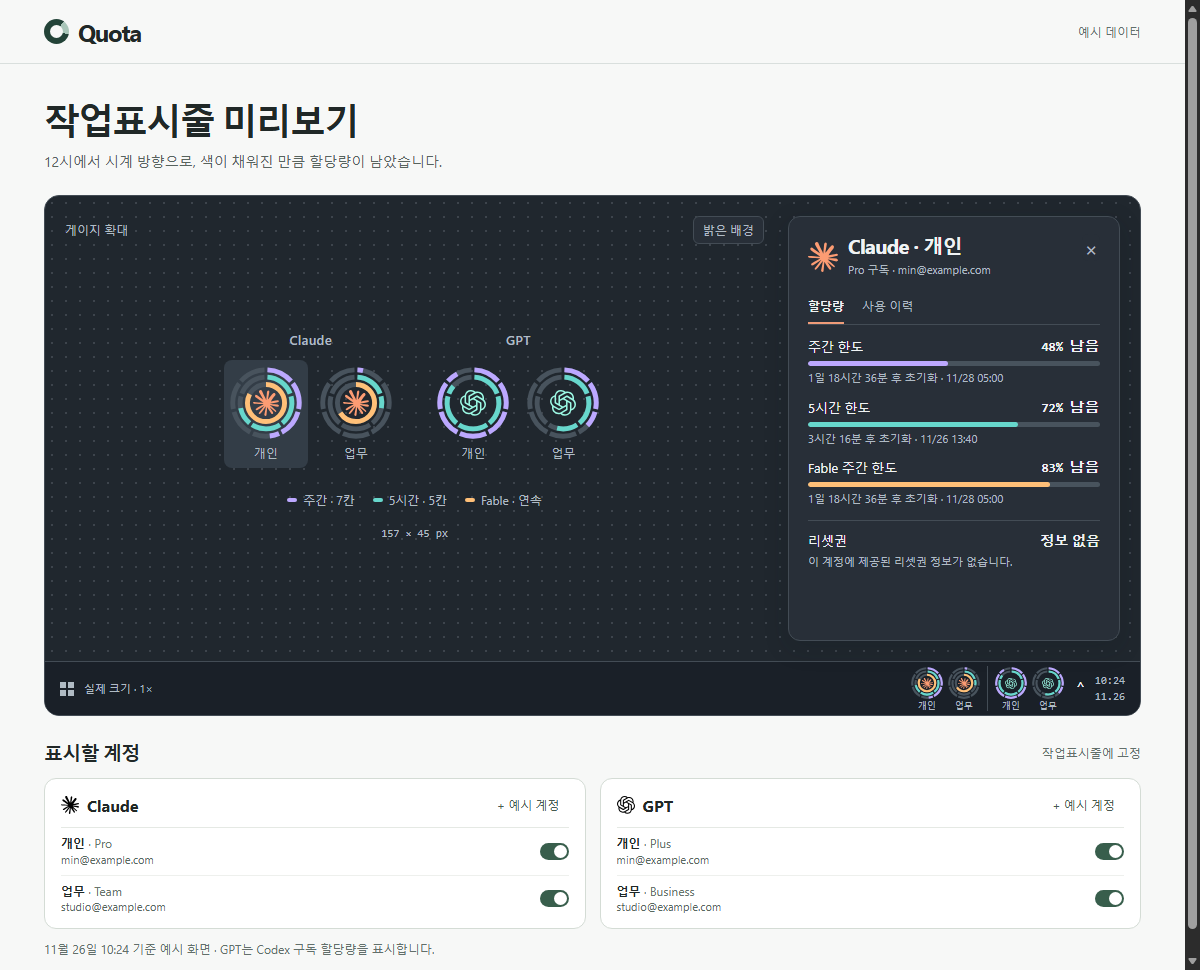
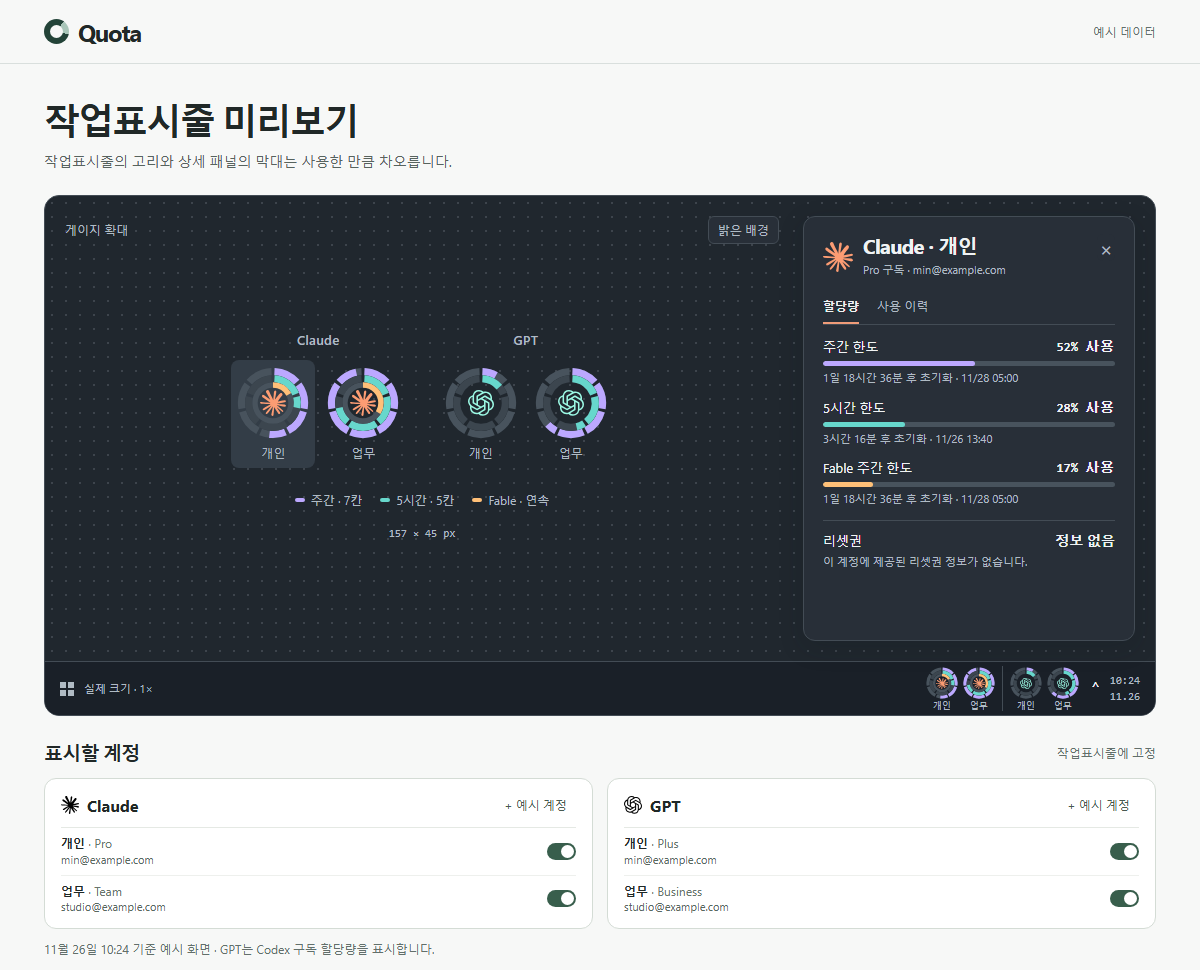
Align quota bars with consumed rings and advance reset hands clockwise

diff --git a/preview.js b/preview.js
@@ -27,8 +27,8 @@ function save(){
   for(const {id, added, visible, redeemed} of accounts) prefs[id] = {added,visible,redeemed};
   try {localStorage.setItem(stateKey, JSON.stringify(prefs));} catch {}
 }
-function remaining(a, windowName){
-  return windowName === "short" && a.redeemed ? 100 : a[windowName];
+function used(a, windowName){
+  return windowName === "short" && a.redeemed ? 0 : 100 - a[windowName];
 }
 function logo(provider){
   return '<img class="logo" src="'+provider+'.svg" alt="">';
@@ -44,9 +44,9 @@ function resetLabel(minutes){
   return left+" 후 초기화 · "+(end.getMonth()+1)+"/"+end.getDate()+" "+clock(minutes);
 }
 const faces = {
-  week: {label:"주간", radius:29.5, divisions:7},
-  short: {label:"5시간", radius:23, divisions:5},
-  fable: {label:"Fable 주간", radius:16.5, divisions:1}
+  week: {label:"주간", radius:28, divisions:7},
+  short: {label:"5시간", radius:21.6, divisions:5},
+  fable: {label:"Fable 주간", radius:16, divisions:1}
 };
 
 function dialRing(key, value){
@@ -75,9 +75,9 @@ function dialRing(key, value){
 
 function gauge(a){
   const windows = Object.keys(faces).filter(key => a[key] != null);
-  const label = windows.map(key=>faces[key].label+" "+remaining(a,key)+"%").join(", ");
-  const description = providers[a.provider]+" "+a.alias+" · "+a.email+" · 잔여율 "+label;
-  const rings = windows.map(key=>dialRing(key,remaining(a,key))).join("");
+  const label = windows.map(key=>faces[key].label+" "+used(a,key)+"%").join(", ");
+  const description = providers[a.provider]+" "+a.alias+" · "+a.email+" · 사용률 "+label;
+  const rings = windows.map(key=>dialRing(key,used(a,key))).join("");
   return `<button class="gauge-btn ${a.provider}" data-open="${a.id}" aria-expanded="${activeId===a.id}" aria-controls="panel" aria-label="${description}" title="${description}">
     <span class="gauge"><svg viewBox="0 0 64 64" aria-hidden="true">${rings}</svg>${logo(a.provider)}</span><span class="account-name">${a.alias}</span></button>`;
 }
@@ -103,16 +103,16 @@ function drawCards(){
   }).join("");
 }
 function limitRow(key, value, minutes){
-  return `<div class="quota ${key}"><div class="quota-head"><span>${faces[key].label} 한도</span><b>${value}% 남음</b></div><div class="meter"><i style="width:${value}%"></i></div><div class="meta">${resetLabel(minutes)}</div></div>`;
+  return `<div class="quota ${key}"><div class="quota-head"><span>${faces[key].label} 한도</span><b>${value}% 사용</b></div><div class="meter"><i style="width:${value}%"></i></div><div class="meta">${resetLabel(minutes)}</div></div>`;
 }
 function limits(a){
   const count=a.tickets===null?null:a.tickets-Number(a.redeemed);
   let creditNote="이 계정에 제공된 리셋권 정보가 없습니다.";
   if(count!==null) creditNote=count ? "만료 "+a.expires : "사용 가능한 리셋권이 없습니다.";
-  const canUse=count>0 && remaining(a,"short")<100;
-  return limitRow("week",a.week,a.reset[1])+
-    limitRow("short",remaining(a,"short"),a.redeemed?300:a.reset[0])+
-    (a.fable != null ? limitRow("fable",a.fable,a.reset[1]) : "")+
+  const canUse=count>0 && used(a,"short")>0;
+  return limitRow("week",used(a,"week"),a.reset[1])+
+    limitRow("short",used(a,"short"),a.redeemed?300:a.reset[0])+
+    (a.fable != null ? limitRow("fable",used(a,"fable"),a.reset[1]) : "")+
     `<div class="ticket"><span>리셋권</span><div><b>${count===null?"정보 없음":count+"장"}</b>${canUse?'<button class="action" id="redeem" title="예시 리셋권 1장으로 5시간 한도 초기화">5시간 리셋 체험</button>':""}</div></div>
     <p class="feedback">${creditNote}${a.redeemed?" · 5시간 리셋 체험 완료":""}</p>`;
 }

diff --git a/index.html b/index.html
@@ -10,7 +10,7 @@
 <body>
   <header class="mast"><span class="wordmark"><i aria-hidden="true"></i>Quota</span><a href="account-preview.html">이전 계정 상세 시안 ↗</a></header>
   <main>
-    <header class="intro"><h1>작업표시줄 리셋 시계</h1><p>사용할수록 고리가 12시부터 시계 방향으로 차오릅니다. 빨간 바늘은 다음 리셋까지 남은 시간을 가리킵니다.</p></header>
+    <header class="intro"><h1>작업표시줄 리셋 시계</h1><p>색이 찬 만큼 한도를 사용했습니다. 빨간 바늘에서 12시까지 시계 방향으로 남은 눈금이 리셋까지 남은 시간입니다.</p></header>
     <section class="board" aria-label="게이지 미리보기">
       <div class="canvas">
         <div class="zoom"><div class="cap">게이지 확대 <span>3×</span></div><div id="zoom"></div></div>
@@ -21,7 +21,7 @@
       <div class="bar"><span class="bar-label">작업표시줄 <strong>1×</strong></span><div id="strip" aria-label="미리 볼 계정"></div><div class="system-clock"><span id="clock"></span><span id="date"></span></div></div>
     </section>
     <section class="choose" aria-label="타이머 표현 방식">
-      <button class="option" data-mode="hands" aria-pressed="true"><span class="radio"></span><span><strong>고리 위 시곗바늘</strong><small>바깥 빨간 선은 주간, 안쪽 빨간 선은 5시간 리셋이 가까워질수록 12시로 돌아옵니다.</small></span><span class="sample-tile" aria-hidden="true"></span></button>
+      <button class="option" data-mode="hands" aria-pressed="true"><span class="radio"></span><span><strong>고리 위 시곗바늘</strong><small>12시에서 출발해 바깥 바늘은 하루에 한 칸, 안쪽 바늘은 한 시간에 한 칸씩 시계 방향으로 움직입니다.</small></span><span class="sample-tile" aria-hidden="true"></span></button>
       <button class="option" data-mode="scale" aria-pressed="false"><span class="radio"></span><span><strong>별칭 아래 시간 눈금</strong><small>보라색 7칸은 하루씩, 청록색 5칸은 한 시간씩 꺼집니다.</small></span><span class="sample-tile" aria-hidden="true"></span></button>
     </section>
     <section class="controls" aria-label="시안 조작">

diff --git a/clock-preview.js b/clock-preview.js
@@ -6,9 +6,9 @@ const accounts = [
   { provider: "GPT", alias: "Pro 200", used: { week: 8, short: 62 }, weekReset: 6 * 1440 + 720, shortReset: 255 },
 ];
 const rings = {
-  week: { name: "주간", color: "#b9a5ff", radius: 35, cells: 7, minutes: 7 * 1440 },
-  short: { name: "5시간", color: "#65ddd1", radius: 26.5, cells: 5, minutes: 300 },
-  fable: { name: "Fable", color: "#ffb784", radius: 19, cells: 1 },
+  week: { name: "주간", color: "#b9a5ff", radius: 35, stroke: 8, cells: 7, minutes: 7 * 1440 },
+  short: { name: "5시간", color: "#65ddd1", radius: 27, stroke: 8, cells: 5, minutes: 300 },
+  fable: { name: "Fable", color: "#ffb784", radius: 20, stroke: 6, cells: 1 },
 };
 const base = new Date(2026, 10, 26, 10, 24);
 const $ = (selector) => document.querySelector(selector);
@@ -41,10 +41,9 @@ function point(radius, fraction) {
   return [40 + radius * Math.sin(angle), 40 - radius * Math.cos(angle)];
 }
 function ring(a, key) {
-  const { radius, cells, color } = rings[key];
+  const { radius, stroke, cells, color } = rings[key];
   const value = a.used[key] / 100;
-  const stroke = key === "fable" ? 3 : 5.2;
-  const track = "#505e62";
+  const track = key === "short" ? "#384b4d" : "#505e62";
   if (cells === 1) {
     const circle = '<circle cx="40" cy="40" r="' + radius + '" fill="none" stroke-width="' + stroke + '"';
     return circle + ' stroke="' + track + '"/>' + (value > 0 ? circle + ' stroke="' + color + '" transform="rotate(-90 40 40)" pathLength="100" stroke-dasharray="' + value * 100 + ' 100"/>' : "");
@@ -61,11 +60,12 @@ function ring(a, key) {
 function hand(a, key) {
   const { radius } = rings[key];
   const left = timeRatio(a, key);
+  const angle = left === 0 ? 0 : (1 - left) * 360;
   const y = 40 - radius;
   // Each hand crosses only its own ring, including when both point to noon.
   const line = 'd="M40 ' + (y + 3.6) + ' v-7.6"';
   const dash = left === 0 ? ' stroke-dasharray="2.8 2 2.8"' : "";
-  return '<g transform="rotate(' + (left * 360) + ' 40 40)" fill="none">' +
+  return '<g transform="rotate(' + angle + ' 40 40)" fill="none">' +
     '<path ' + line + ' stroke="#182125" stroke-width="6"/>' +
     '<path ' + line + ' stroke="#ff4848" stroke-width="3.6"' + dash + '/></g>';
 }

diff --git a/account-preview.html b/account-preview.html
@@ -10,7 +10,7 @@
 <body>
 <header><div class="brand"><i aria-hidden="true"></i>Quota</div><span class="sample">예시 데이터</span></header>
 <main>
-<div class="heading"><div><h1>작업표시줄 미리보기</h1><p>12시에서 시계 방향으로, 색이 채워진 만큼 할당량이 남았습니다.</p></div></div>
+<div class="heading"><div><h1>작업표시줄 미리보기</h1><p>작업표시줄의 고리와 상세 패널의 막대는 사용한 만큼 차오릅니다.</p></div></div>
 <section class="stage" aria-label="작업표시줄과 계정 상세">
 <div class="scene"><div class="canvas"><div class="canvashead"><span>게이지 확대</span><button id="theme" aria-pressed="false">밝은 배경</button></div><div class="study" id="study"></div><div class="legend" aria-label="고리 범례"><span class="week">주간 · 7칸</span><span class="short">5시간 · 5칸</span><span class="fable">Fable · 연속</span></div><div class="dimension" id="dim"></div></div>
 <aside id="panel" aria-labelledby="account-title" hidden></aside></div>

diff --git a/preview.css b/preview.css
@@ -14,7 +14,7 @@ button{font:inherit;color:inherit;cursor:pointer}button:focus-visible{outline:2p
 .stage{--week:#bca8ff;--short:#67d7cc;--fable:#ffc078}
 .stage.light{--week:#6750ac;--short:#00766e;--fable:#9a5717}
 .week{--color:var(--week)}.short{--color:var(--short)}.fable{--color:var(--fable)}
-.dial-ring{fill:none;stroke:var(--color);stroke-width:4.35}.dial-ring .track{stroke:var(--track)}
+.dial-ring{fill:none;stroke:var(--color);stroke-width:6.4}.dial-ring.fable{stroke-width:4.8}.dial-ring .track{stroke:var(--track)}.dial-ring.short .track{stroke:color-mix(in srgb,var(--track) 70%,var(--ground))}
 .legend{display:flex;justify-content:center;flex-wrap:wrap;gap:8px 18px;margin-top:24px}
 .legend span{font-size:12px;color:var(--muted);display:inline-flex;align-items:center;gap:6px}
 .legend span:before{content:"";width:10px;height:4px;border-radius:2px;background:var(--color)}

diff --git a/src/app.js b/src/app.js
@@ -62,15 +62,15 @@ function resetTime(t) {
   );
 }
 function limit(label, key, v) {
-  if (!v) return "";
-  const value = Math.max(0, Math.min(100, v.remaining));
+  if (!Number.isFinite(v?.remaining)) return "";
+  const used = 100 - Math.max(0, Math.min(100, v.remaining));
   return (
     '<div class="limit"><div class="line"><span>' +
     label +
     "</span><b>" +
-    Number(value.toFixed(1)) +
-    '% 남음</b></div><div class="meter"><i style="width:' +
-    value +
+    Number(used.toFixed(1)) +
+    '% 사용</b></div><div class="meter"><i style="width:' +
+    used +
     "%;background:var(--" +
     key +
     ')"></i></div><small>' +

diff --git a/src/taskbar.rs b/src/taskbar.rs
@@ -1167,11 +1167,9 @@ fn light_theme() -> bool {
 // 64x64 alpha masks rasterized from claude.svg and openai.svg, covered by ICONS-LICENSE.txt.
 const CLAUDE_MASK: &[u8; 4096] = include_bytes!("taskbar_claude.alpha");
 const GPT_MASK: &[u8; 4096] = include_bytes!("taskbar_openai.alpha");
-const WEEK_RADIUS: f32 = 35. / 2.;
-const SHORT_RADIUS: f32 = 26.5 / 2.;
-const FABLE_RADIUS: f32 = 19. / 2.;
-const RING_WIDTH: f32 = 5.2 / 2.;
-const FABLE_WIDTH: f32 = 3. / 2.;
+const OUTER_RADIUS: f32 = 19.5;
+const RING_WIDTH: f32 = 4.;
+const FABLE_WIDTH: f32 = 3.;
 const WEEK_SECONDS: i64 = 7 * 24 * 60 * 60;
 const SHORT_SECONDS: i64 = 5 * 60 * 60;
 
@@ -1211,10 +1209,14 @@ struct ResetHand {
 }
 
 fn reset_hand(resets_at: Option<i64>, now: i64, window: i64) -> Option<ResetHand> {
-    let seconds = resets_at?.saturating_sub(now).clamp(0, window);
+    let left = resets_at?.saturating_sub(now).clamp(0, window);
     Some(ResetHand {
-        angle: TAU * (seconds as f32 / window as f32),
-        expired: seconds == 0,
+        angle: if left == 0 {
+            0.
+        } else {
+            TAU * ((window - left) as f32 / window as f32)
+        },
+        expired: left == 0,
     })
 }
 
@@ -1374,28 +1376,40 @@ impl Renderer {
                         HEIGHT as f32 / 2.,
                     );
                     let known = has_quota(tile);
-                    for (limit, radius, stroke, divisions, active) in [
-                        (tile.week.as_ref(), WEEK_RADIUS, RING_WIDTH, 7, palette.week),
+                    let mut outer_edge = OUTER_RADIUS;
+                    for (limit, stroke, divisions, active, track, window) in [
+                        (
+                            tile.week.as_ref(),
+                            RING_WIDTH,
+                            7,
+                            palette.week,
+                            palette.track,
+                            Some(WEEK_SECONDS),
+                        ),
                         (
                             tile.short.as_ref(),
-                            SHORT_RADIUS,
                             RING_WIDTH,
                             5,
                             palette.short,
+                            palette.short_track,
+                            Some(SHORT_SECONDS),
                         ),
                         (
                             tile.fable.as_ref(),
-                            FABLE_RADIUS,
                             FABLE_WIDTH,
                             1,
                             palette.fable,
+                            palette.track,
+                            None,
                         ),
                     ] {
                         let Some(limit) = limit.filter(|limit| limit.remaining.is_finite()) else {
                             continue;
                         };
+                        let radius = outer_edge - stroke / 2.;
+                        outer_edge -= stroke;
                         for arc in arcs(divisions, limit.remaining) {
-                            brush.SetColor(&palette.track);
+                            brush.SetColor(&track);
                             self.arc(
                                 target,
                                 &brush,
@@ -1416,10 +1430,21 @@ impl Renderer {
                                 )?;
                             }
                         }
+                        if let Some(hand) = window.and_then(|w| reset_hand(limit.resets_at, now, w))
+                        {
+                            draw_reset_hand(target, &brush, &palette, center, radius, hand);
+                        }
                     }
                     if !known {
                         brush.SetColor(&palette.track);
-                        self.arc(target, &brush, center, (WEEK_RADIUS, RING_WIDTH), 0., TAU)?;
+                        self.arc(
+                            target,
+                            &brush,
+                            center,
+                            (OUTER_RADIUS - RING_WIDTH / 2., RING_WIDTH),
+                            0.,
+                            TAU,
+                        )?;
                     }
                     let has_fable = tile
                         .fable
@@ -1444,17 +1469,6 @@ impl Renderer {
                         D2D1_BITMAP_INTERPOLATION_MODE_LINEAR,
                         None,
                     );
-                    for (limit, radius, window) in [
-                        (tile.week.as_ref(), WEEK_RADIUS, WEEK_SECONDS),
-                        (tile.short.as_ref(), SHORT_RADIUS, SHORT_SECONDS),
-                    ] {
-                        let reset = limit
-                            .filter(|limit| limit.remaining.is_finite())
-                            .and_then(|limit| limit.resets_at);
-                        if let Some(hand) = reset_hand(reset, now, window) {
-                            draw_reset_hand(target, &brush, &palette, center, radius, hand);
-                        }
-                    }
                     let label_left = x + (TILE_PAD + DIAL_SIZE + LABEL_GAP) as f32;
                     let label_right = x + width - TILE_PAD as f32;
                     if label_right > label_left {
@@ -1668,6 +1682,7 @@ struct Palette {
     paper: D2D1_COLOR_F,
     hover: D2D1_COLOR_F,
     track: D2D1_COLOR_F,
+    short_track: D2D1_COLOR_F,
     label: D2D1_COLOR_F,
     line: D2D1_COLOR_F,
     week: D2D1_COLOR_F,
@@ -1696,6 +1711,7 @@ impl Palette {
             paper: color(paper, 0.92),
             hover: color(hover, 1.),
             track: color(track, 1.),
+            short_track: color(if light { 0xafc6be } else { 0x384b4d }, 1.),
             label: color(label, 1.),
             line: color(line, 1.),
             week: color(week, 1.),
@@ -1995,15 +2011,20 @@ mod tests {
     }
 
     #[test]
-    fn active_reset_hands_follow_their_own_window() {
-        let now = 1_800_000_000;
-        let week = reset_hand(Some(now + WEEK_SECONDS / 4), now, WEEK_SECONDS).unwrap();
-        let short = reset_hand(Some(now + SHORT_SECONDS / 2), now, SHORT_SECONDS).unwrap();
-        let clamped = reset_hand(Some(now + SHORT_SECONDS + 1), now, SHORT_SECONDS).unwrap();
-        assert_eq!(week.angle, TAU / 4.);
-        assert_eq!(short.angle, TAU / 2.);
-        assert_eq!(clamped.angle, TAU);
-        assert!(!week.expired && !short.expired && !clamped.expired);
+    fn reset_hands_advance_clockwise_one_tick_per_day_or_hour() {
+        let start = 1_800_000_000;
+        for (window, ticks) in [(WEEK_SECONDS, 7), (SHORT_SECONDS, 5)] {
+            let reset = Some(start + window);
+            assert_eq!(reset_hand(reset, start - 1, window).unwrap().angle, 0.);
+            for tick in 0..ticks {
+                let now = start + tick * (window / ticks);
+                let hand = reset_hand(reset, now, window).unwrap();
+                let expected = TAU * tick as f32 / ticks as f32;
+                assert!((hand.angle - expected).abs() < 0.00001);
+                assert!(!hand.expired);
+            }
+            assert!(reset_hand(reset, start + window - 1, window).unwrap().angle > TAU * 0.99);
+        }
     }
 
     #[test]

diff --git a/README.md b/README.md
@@ -1,20 +1,20 @@
 # Quota
 
-Windows 11 x64 작업표시줄에서 Claude Code와 Codex의 계정별 구독 할당량을 확인하는 앱입니다. 계정 별칭 왼쪽의 40 DIP 게이지가 사용한 만큼 12시에서 시계 방향으로 차오릅니다. 바깥의 보라색 7칸은 주간 사용량, 청록색 5칸은 5시간 사용량입니다. Claude가 Fable 한도를 제공하면 안쪽 살구색 고리에 해당 사용량을 표시합니다.
+Windows 11 x64 작업표시줄에서 Claude Code와 Codex의 계정별 구독 할당량을 확인하는 앱입니다. 계정 별칭 왼쪽의 40 DIP 게이지에는 고리가 서로 맞닿아 있고, 각 고리는 사용한 만큼 12시에서 시계 방향으로 차오릅니다. 바깥의 보라색 7칸은 주간 사용량, 청록색 5칸은 5시간 사용량입니다. Claude가 Fable 한도를 제공하면 안쪽 살구색 고리에 해당 사용량을 표시합니다.
 
 ## 게이지 읽기
 
-![Windows 11 작업표시줄에서 테스트 계정 두 개와 +1 버튼을 표시한 실제 캡처](taskbar-clock-native.png)
+![Windows 11 작업표시줄에서 테스트 계정의 사용량 고리와 빨간 바늘, +2 버튼을 표시한 실제 캡처](taskbar-clock-native.png)
 
-각 고리의 짧은 빨간 선은 리셋까지 남은 시간을 가리킵니다. 주간은 한 칸에 하루, 5시간 한도는 한 칸에 한 시간이며 두 바늘은 시간이 흐르면 반시계 방향으로 12시에 다가갑니다. 리셋 시각을 지나면 다음 조회까지 12시에 끊어진 빨간 선이 표시됩니다. 공급자가 리셋 시각을 제공한 고리에만 바늘이 나타납니다. 계정을 누르면 상세 패널에서 정확한 잔여율과 현지 리셋 시각을 볼 수 있습니다.
+빨간 바늘은 한도 주기가 시작되면 12시에서 출발해 시계 방향으로 움직입니다. 바깥 바늘은 하루에 한 칸, 안쪽 바늘은 한 시간에 한 칸을 지납니다. 바늘에서 12시까지 시계 방향으로 남은 눈금이 다음 리셋까지 남은 시간입니다. 리셋 시각을 지나면 다음 조회까지 12시에 끊어진 빨간 선이 표시됩니다. 공급자가 리셋 시각을 제공한 고리에만 바늘이 나타납니다. 계정을 누르면 상세 패널의 막대와 숫자에서 같은 사용률을 확인하고, 그 아래에서 초기화까지 남은 시간과 현지 시각을 볼 수 있습니다.
 
 ![작업표시줄 리셋 시계 시안](taskbar-clock.png)
 
-저장소를 내려받아 [시안](index.html)을 열면 40 DIP 게이지와 오른쪽 별칭을 실제 크기로 볼 수 있습니다. **고리 위 시곗바늘**에서 바깥 빨간 선은 주간 리셋을, 안쪽 빨간 선은 5시간 리셋을 가리킵니다. **+1시간**을 누르면 두 바늘이 반시계 방향으로 12시에 다가갑니다. **별칭 아래 시간 눈금**으로 전환해 비교할 수 있습니다. **사용량 바꿔 보기**에서 슬라이더를 올리면 고리가 12시부터 시계 방향으로 차오릅니다. 0%에서는 비어 있고 100%에서는 한 바퀴가 모두 채워집니다. 이 화면은 예시 데이터를 사용합니다.
+저장소를 내려받아 [시안](index.html)을 열면 40 DIP 게이지와 오른쪽 별칭을 실제 크기로 볼 수 있습니다. **고리 위 시곗바늘**에서 **+1시간**을 누르면 5시간 바늘이 시계 방향으로 한 칸 전진합니다. **별칭 아래 시간 눈금**으로 전환해 비교할 수 있습니다. **사용량 바꿔 보기**에서 슬라이더를 올리면 고리가 12시부터 시계 방향으로 차오릅니다. 0%에서는 비어 있고 100%에서는 한 바퀴가 모두 채워집니다. 이 화면은 예시 데이터를 사용합니다.
 
 ## 설치와 계정 연결
 
-1. `dist/Quota-1.1.0-windows-x64-setup.exe`를 실행합니다. 설치는 현재 Windows 사용자에게 적용됩니다. WebView2가 없는 PC는 최초 설치 시 인터넷 연결이 필요합니다. 이 빌드는 미서명입니다.
+1. `dist/Quota-1.1.1-windows-x64-setup.exe`를 실행합니다. 설치는 현재 Windows 사용자에게 적용됩니다. WebView2가 없는 PC는 최초 설치 시 인터넷 연결이 필요합니다. 이 빌드는 미서명입니다.
 2. 시작 메뉴에서 **Quota**를 열고 Claude 또는 GPT를 선택합니다. 제안된 폴더를 확인하거나 **폴더 선택**으로 Windows에서 이미 로그인한 CLI 프로필을 지정합니다. Claude는 `.credentials.json`, Codex는 구독 OAuth 로그인이 들어 있는 `auth.json`을 사용하는 프로필을 지원합니다.
 3. **이 폴더로 연결**을 누릅니다. 폴더를 한 계정 전용으로 사용해 왔다면 전용 폴더 확인란을 선택할 수 있습니다. 확인하지 않으면 계정 ID가 없는 과거 기록은 집계에서 제외됩니다.
    두 번째 GPT를 추가할 때는 **계정 설정 → 계정 추가 → GPT · Codex**에서 별칭을 입력하고 **GPT 로그인 링크 받기 → 로그인 링크 복사**를 누릅니다. 이 PC에서 추가할 계정이 로그인된 브라우저 프로필을 열고 주소창에 링크를 붙여넣으세요. 인증이 끝나면 앱이 해당 계정을 연결합니다. 기다리는 중에 **로그인 취소**를 누르면 링크를 폐기하고 다시 시작할 수 있습니다. Claude도 같은 방법으로 추가할 수 있습니다. 해당 CLI가 이 PC에 설치되어 있어야 합니다.
@@ -35,7 +35,7 @@ Windows x64, Rust MSVC 도구 체인, Visual Studio C++ Build Tools와 Windows S
 ```powershell
 cargo test --locked
 powershell -NoProfile -ExecutionPolicy Bypass -File .\packaging\build.ps1
-Get-FileHash .\dist\Quota-1.1.0-windows-x64-setup.exe -Algorithm SHA256
+Get-FileHash .\dist\Quota-1.1.1-windows-x64-setup.exe -Algorithm SHA256
 ```
 
 빌드 스크립트는 잠금 파일로 Rust 릴리스를 빌드하고, 해시로 검증한 NSIS와 Microsoft 서명을 확인한 WebView2 부트스트래퍼로 `dist`의 설치본과 체크섬 파일을 생성합니다. 최초 빌드에는 네트워크 연결이 필요합니다.
